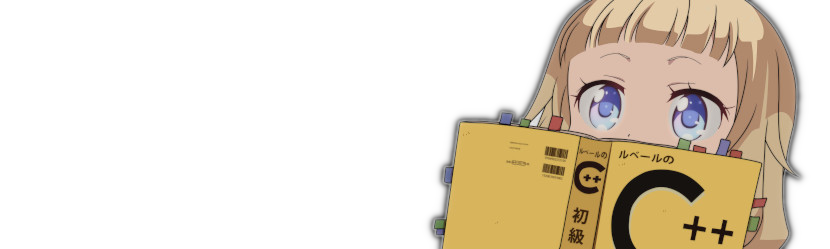
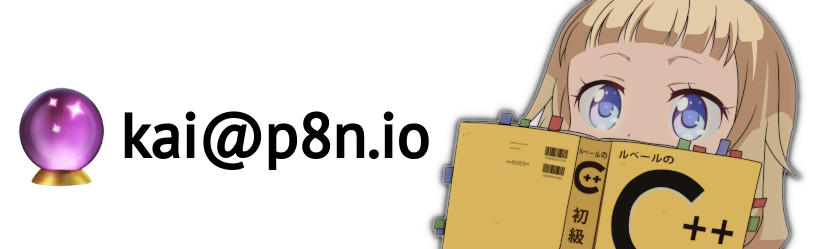
fix nene

Changed region(s): [[0.0, 0.3373, 0.5422, 0.759]]

diff --git a/README.md b/README.md
@@ -1,12 +1,7 @@
 <body>
 <picture>
-    <img alt="Me irl" src="img/nene.jpg">
+    <img align="right" alt="Me irl" src="img/nene.png">
 </picture>
-
-<div style="width: 830px; height: 249px; background-image: url('https://raw.githubusercontent.com/flanfly/flanfly/master/img/header-bg.jpg'); background-size: contain;">
-    <h1 class="title">Kai 🔮</h1>
-    <span class="mail">kai (ät) p8n (döt) io</span>
-</div>
 
 <picture>
     <img alt="Meet me at Meat World" src="img/meet-me.png">
